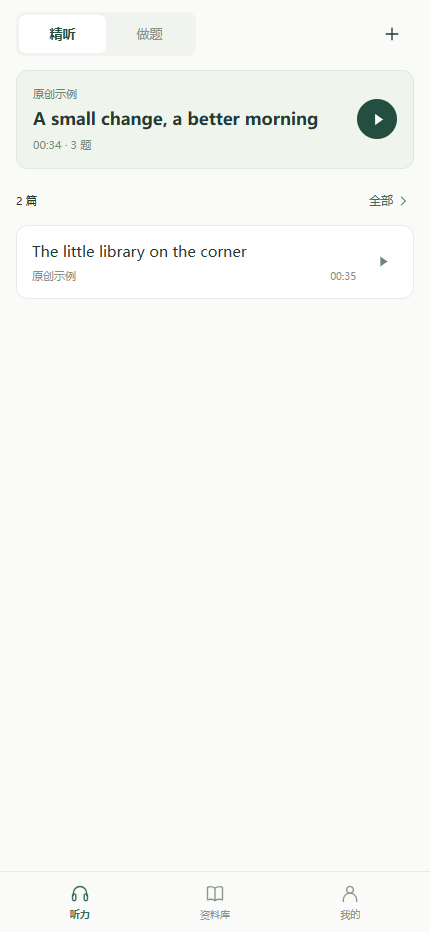
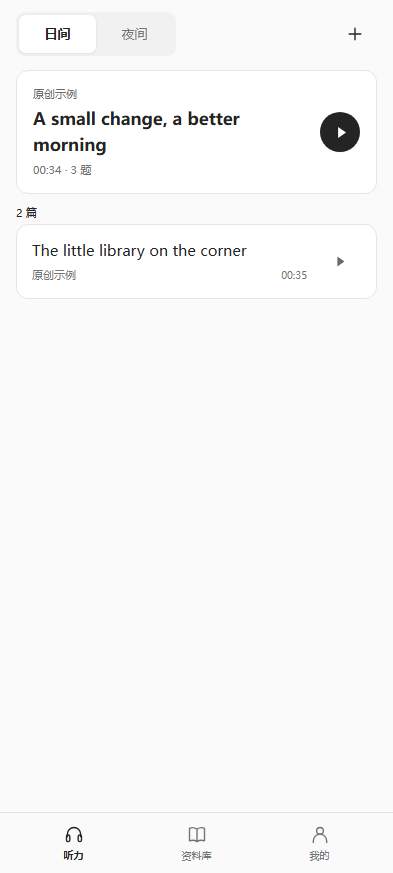
Document 1.0.5 release, themes and verified compatibility

diff --git a/docs/themes-and-activity.md b/docs/themes-and-activity.md
@@ -2,7 +2,7 @@
 
 收藏按钮在空心与实心书签之间切换。按钮背景始终透明，取消收藏不会留下悬停矩形，也不再弹出收藏提示框。键盘操作仍有图案焦点提示，系统要求减少动画时不播放过渡。
 
-按钮使用短促的按压反馈，模式选择滑块从当前可见位置收束到最新选择；内容切换只轻微淡入，保持正文位置和播放器高度。首页播放与主题切换保留原有页面节点，列表不会因播放某篇文章而重排，播放图标由实际媒体状态驱动。快速反向操作会取消旧视觉状态，动画不延迟作答或播放。
+按钮使用短促的按压反馈，保持点击区域固定；收藏反馈发生在图案上，播放按钮保持形状和位置稳定，仅通过状态图标与浅阴影反馈操作。模式选择滑块从当前可见位置收束到最新选择；内容切换只轻微淡入，保持正文位置和播放器高度。首页播放与主题切换保留原有页面节点，列表不会因播放某篇文章而重排，播放图标由实际媒体状态驱动。快速反向操作会取消旧视觉状态，动画不延迟作答或播放。表面使用细边框、轻阴影和低对比色块，避免大面积装饰占据正文。
 
 听力首页、资料库和“我的”使用日间／夜间切换，精听／做题只出现在正文页。日间界面采用黑白灰，夜间使用近黑底和暖橙色文字；选择保存在本地，重新打开继续沿用，安卓状态栏和导航栏图标同步切换。活跃日历在日间使用绿色阶，在夜间使用橙色阶。
 
@@ -31,6 +31,10 @@ npm run test:ui
 npm run test:replay
 ```
 
-本地 Android 16 已用实际轻量 APK 触摸验证首页播放、切换主题不中断音频、主题重载、默认精听／隐藏、收藏状态与内置真题交互；真实 M4A 的 86 个浏览器回归状态通过。最终安装包与云端结果在验收结束后补充。realme GT7 未直接测试新版。
+最终 1.0.5 轻量 APK 已在本地 Android 16 / WebView 133 触摸验证首页播放、切换主题不中断音频、主题重载、默认精听／隐藏、收藏状态与内置真题交互。三轮实际触摸重复播放共 16 个场景及 8 项 Range 字节校验通过，既有答案、导入清单保持不变。Chromium 143 专用测试运行时完成 WAV、Blob、实际 M4A、真实分题切片与错误重试的 86 个回归状态；两套主题、统计更新、重做、减少动画及三种手机宽度的 12 个交互检查通过。
+
+[GitHub 同一源码的 Android 8 / 11 / 16 及浏览器流程](https://github.com/AITopia-Shao/listenly-android/actions/runs/38553590758) 四项作业全部通过，使用原创示例与合成音夹具。API 36 首次运行在安装应用前遇到 Android Launcher ANR，预检拒绝继续并保留证据；仅重跑失败作业后通过，未放宽触摸或播放断言。Windows 桌面 Edge 曾出现无 JS `pause()` 调用的内部媒体暂停，未将该次回归计为通过；上述 86 项来自独立 Chromium 的完整通过结果。realme GT7 未直接测试新版。
+
+安装包沿用旧签名，versionCode 6，最低 API 26。轻量包保留 1 套、7 篇、25 题；完整版保留 52 套、100 篇、900 题。两版材料 JSON、音频 CRC 与长度和 1.0.4 逐一一致，公开演示包仅包含两个 CC0 原创示例与五道题。
 
 系统栏实现遵循 [Android WindowInsetsController 文档](https://developer.android.com/reference/android/view/WindowInsetsController#setSystemBarsAppearance(int,%20int))，旧系统保留相应的 View 标志兼容路径。

diff --git a/README.md b/README.md
@@ -14,6 +14,14 @@
 
 “我的”改为今日听力分钟、今日完成题次和累计学习小时，新增过去一年的做题活跃日历：日间绿色、夜间橙色，重做题目也累计活跃度。旧记录迁移与统计口径见 [外观及按日统计验收](docs/themes-and-activity.md)。
 
+按压反馈保持点击区域固定，播放图标由实际媒体状态驱动；主题切换保留页面和音频，模式滑块从当前位置过渡，快速反向操作跟随最新选择，并尊重系统减少动画设置。
+
+| 夜间首页 | 日间活跃度 | 夜间活跃度 |
+| --- | --- | --- |
+| ![夜间首页](docs/screenshots/home-dark.png) | ![日间活跃度](docs/screenshots/profile-light.png) | ![夜间活跃度](docs/screenshots/profile-dark.png) |
+
+截图使用原创示例；活跃度截图含一次性演示记录，安装包不预填学习统计。[1.0.5 安装包](https://github.com/AITopia-Shao/listenly-android/releases/tag/v1.0.5) 与 [本次兼容性回归](https://github.com/AITopia-Shao/listenly-android/actions/runs/38553590758) 可分别下载和查看。
+
 ## 1.0.4 的播放修复
 
 修复安卓 WebView 读取非零音频范围时二次跳过数据的问题，避免重开文章、切换材料或拖动进度后的解码失败；播放器出错后重新加载并保留位置，正常取消不再误报文件损坏，听完的文章重开从头播放。保留 1.0.3 的紧凑阅读布局。根因、旧包复现和验证范围见 [重复播放验收](docs/audio-replay.md)。
@@ -22,7 +30,7 @@
 
 ## 1.0.3 的界面调整
 
-删除顶部品牌图块、宣传语、重复页面标题与常驻说明。首页和资料库直接展示训练模式、材料、筛选与导入；精听和做题页使用完整屏高，底部音频条替换「听力 / 资料库 / 我的」导航，将空间留给正文或题目。
+删除顶部品牌图块、宣传语、重复页面标题与常驻说明。首页和资料库直接展示材料、筛选与导入；精听和做题页使用完整屏高，底部音频条替换「听力 / 资料库 / 我的」导航，将空间留给正文或题目。
 
 播放速度、前后跳 5 秒、播放 / 暂停、单句循环及进度拖动保留。顶部可返回、打开文章目录、进入资料库和收藏；长文章与长题目在正文区域滚动，不被播放器遮挡。同一文章的双语 / 原文切换保持句子阅读位置，同一题选择或提交答案保持滚动位置。
 
